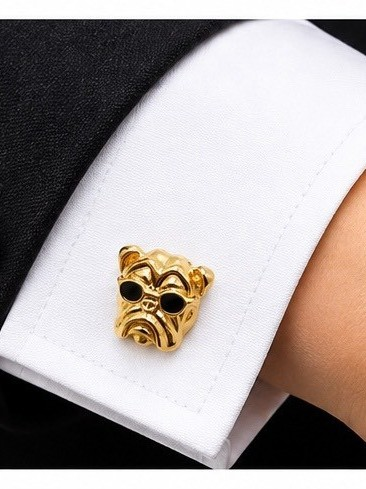
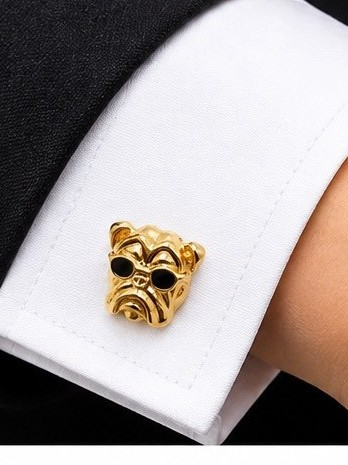
Small goods category: card case type, homepage tile, five-tile grid
- Card case product type becomes 小物 in the import CSV
- Homepage categories gain a Small Goods tile (collection small-goods),
  shown once that collection has published products
- Category grid supports five tiles; on phones an odd last tile spans the row
- Trim the white edge off the cufflinks tile photo

Claude-Session: https://claude.ai/code/session_016euzdqK1XPG3sLcepe4R3M

diff --git a/rotailor-shopify/theme/assets/base.css b/rotailor-shopify/theme/assets/base.css
@@ -233,6 +233,7 @@ button { font: inherit; }
 .category-grid--1 { grid-template-columns: 1fr; }
 .category-grid--2 { grid-template-columns: repeat(2, 1fr); }
 .category-grid--3 { grid-template-columns: repeat(3, 1fr); }
+.category-grid--5 { grid-template-columns: repeat(5, 1fr); gap: 12px; }
 .category-tile { position: relative; display: block; overflow: hidden; color: #fff; }
 .category-tile__media img, .category-tile__media .placeholder { width: 100%; aspect-ratio: 3 / 4; object-fit: cover; transition: transform 0.8s ease; }
 .category-tile:hover .category-tile__media img { transform: scale(1.04); }
@@ -510,7 +511,10 @@ button { font: inherit; }
   .brand-story__grid, .simulator-promo__grid, .store-visit__grid { grid-template-columns: 1fr; gap: 40px; }
   .brand-story__grid--reverse .brand-story__media { order: 0; }
   .store-visit__body { padding: 32px 24px; }
-  .category-grid, .category-grid--3 { grid-template-columns: repeat(2, 1fr); }
+  .category-grid, .category-grid--3, .category-grid--5 { grid-template-columns: repeat(2, 1fr); }
+  /* 数が奇数のとき、最後の 1 枚は横いっぱいに */
+  .category-grid--3 > :last-child, .category-grid--5 > :last-child { grid-column: 1 / -1; }
+  .category-grid--3 > :last-child .category-tile__media img, .category-grid--5 > :last-child .category-tile__media img { aspect-ratio: 2 / 1; }
   .product-grid, .product-grid--3 { grid-template-columns: repeat(2, minmax(0, 1fr)); gap: 32px 12px; }
   .suit-pairing__panel { grid-template-columns: 1fr; gap: 32px; }
   .post-grid { grid-template-columns: repeat(2, minmax(0, 1fr)); }

diff --git a/rotailor-shopify/tools/build-products-2.py b/rotailor-shopify/tools/build-products-2.py
@@ -161,7 +161,7 @@ def build():
             if pos == 1:
                 r.update({
                     "Title": title, "Body (HTML)": card_body, "Vendor": "ROtailor",
-                    "Type": "カードケース", "Tags": "カードケース,名刺入れ,ハンドメイド,ウール,ギフト",
+                    "Type": "小物", "Tags": "小物,カードケース,名刺入れ,ハンドメイド,ウール,ギフト",
                     "Published": "TRUE", "Option1 Name": "柄", "Gift Card": "FALSE", "Status": "active",
                     "素材 (product.metafields.custom.material)": "ウール（オーダースーツの残布）",
                 })
